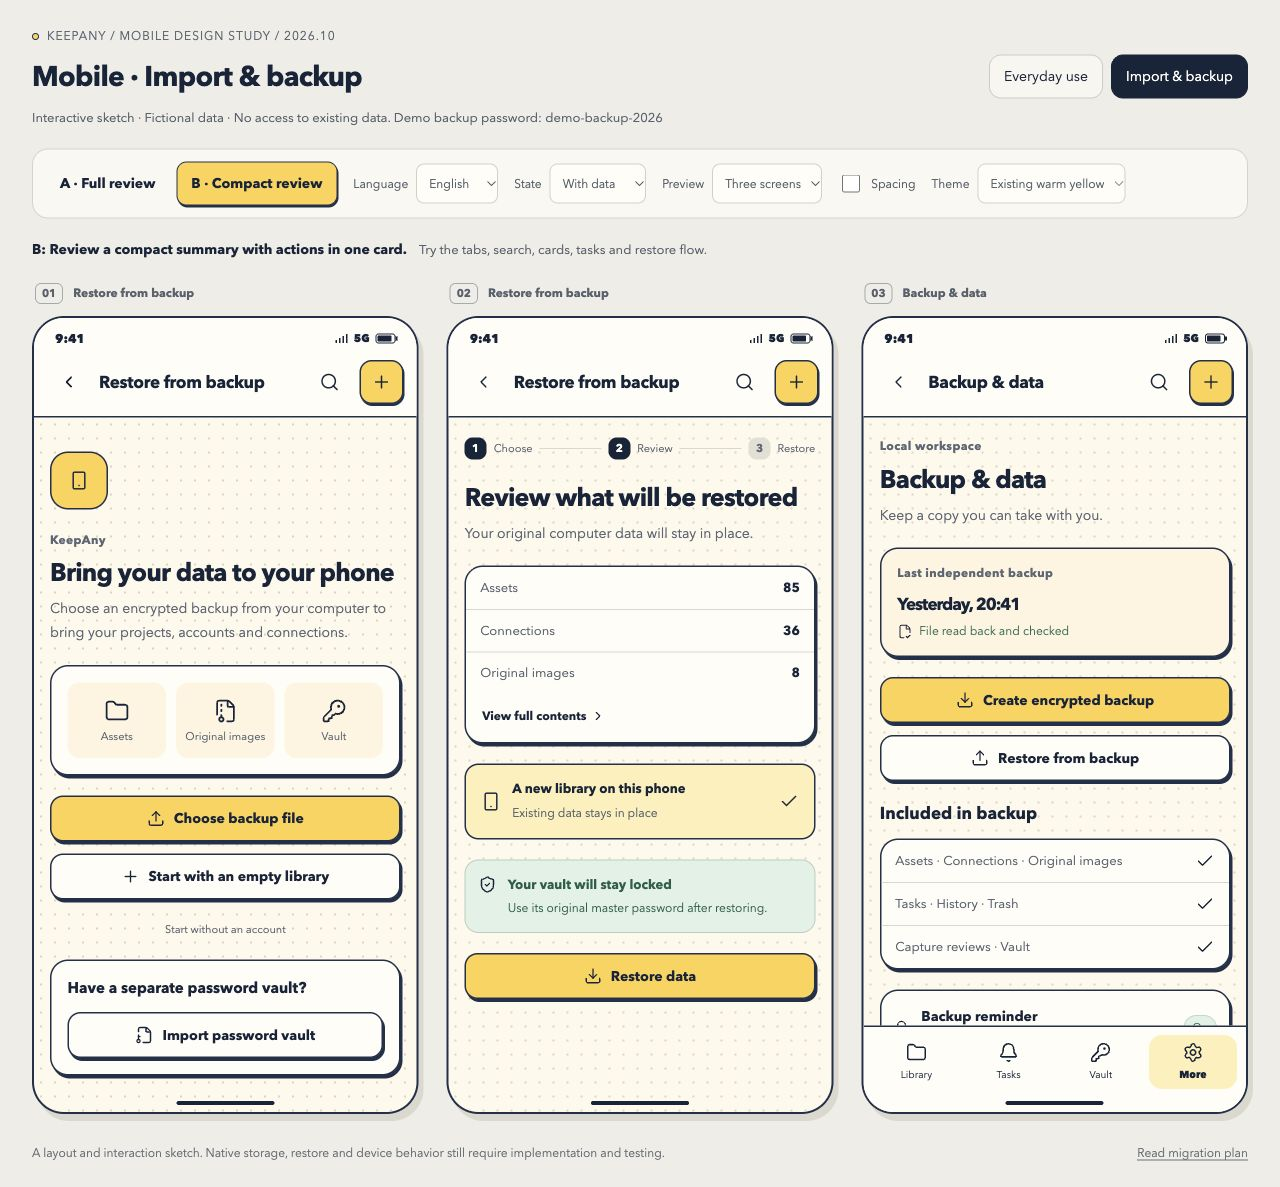
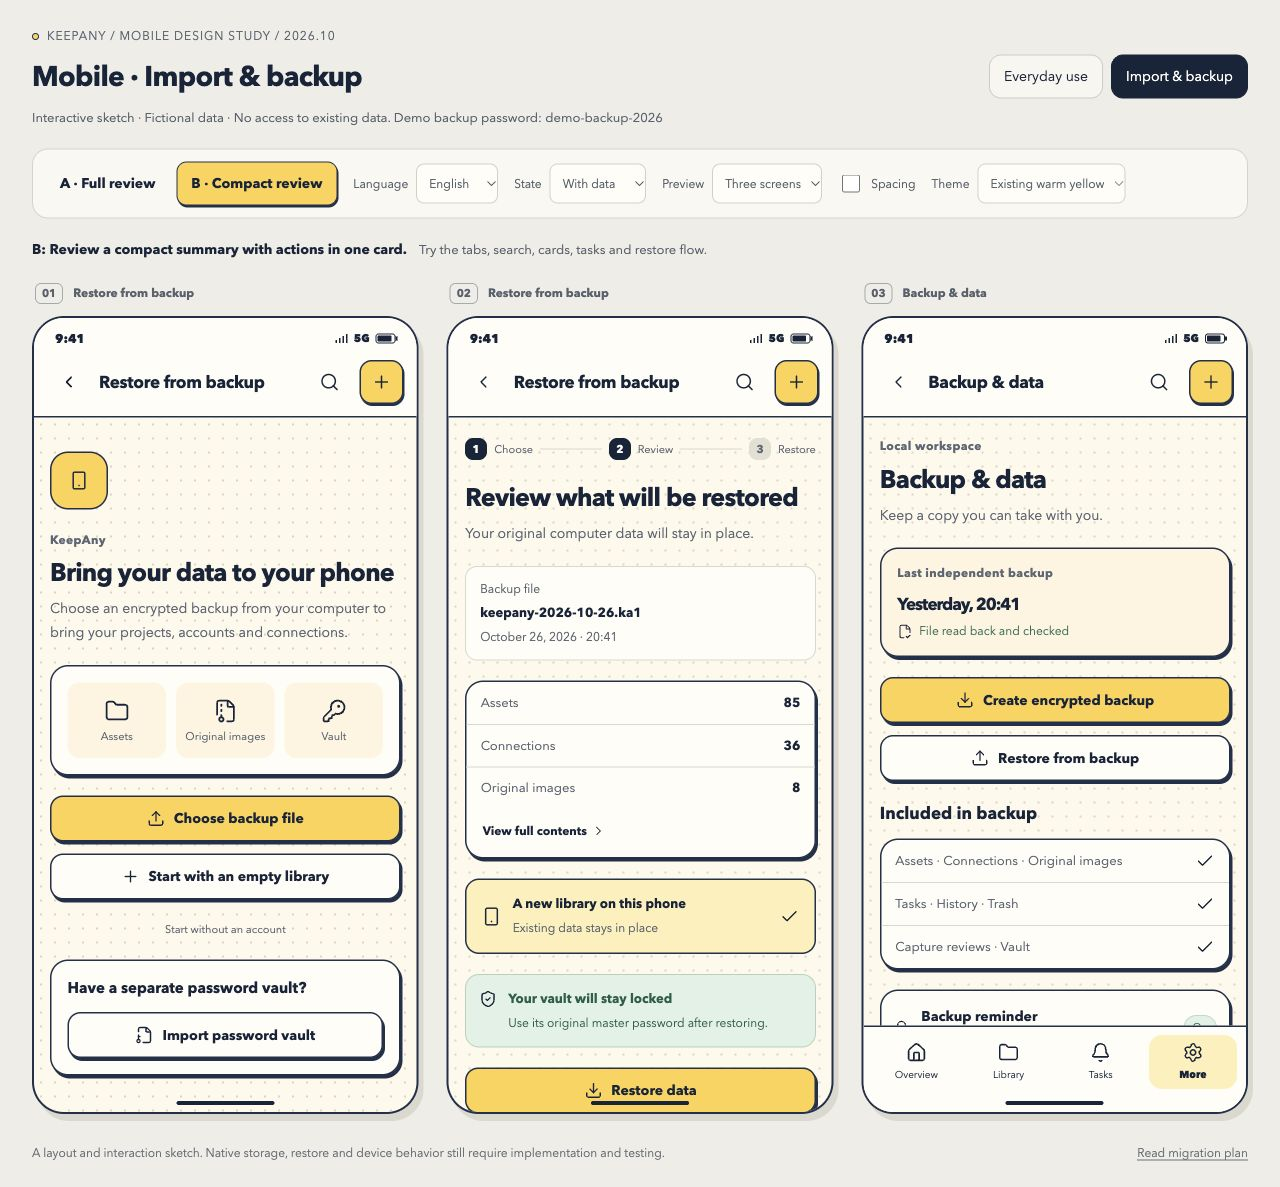
docs(sketch): keep backup source visible in compact restore review

diff --git a/.planning/sketches/mobile-preview.js b/.planning/sketches/mobile-preview.js
@@ -78,7 +78,7 @@
   function scope(p){const values=[['records','85'],['relations','36'],['images','8'],['tasks','12'],['history','42'],['trash','6'],['review','4'],['vault','1']];return `<div class="card"><ul class="scope-list">${values.slice(0,variant==='b'&&!p.fullScope?3:8).map(([k,v])=>`<li><span>${t(k)}</span><strong>${v}</strong></li>`).join('')}</ul>${variant==='b'?`<div style="padding:0 8px 4px">${text(p.fullScope?'lessScope':'moreScope','scope','ChevronRight')}</div>`:''}</div>`;}
   function restorePreview(p){
     if(uiState==='error'&&!p.ignoreError)return `${steps(2)}<h1>${t('backupScope')}</h1>${fileTile()}${notice('corruptTitle','corruptHint','error')}${action('chooseAgain','choose','RotateCcw','full primary')}`;
-    return `${steps(2)}<div><h1>${t('backupScope')}</h1><p class="intro">${t('backupScopeHint')}</p></div>${uiState==='interrupted'&&!p.resumed?`${notice('interruptedTitle','interruptedHint','warn')}<div class="action-stack">${action('continueRestore','continue','RotateCcw','primary full')}${action('keepCurrent','keep','Check','full')}</div>`:''}${variant==='a'?fileTile():''}${scope(p)}<div class="target">${icon('Smartphone')}<div><strong>${t('newWorkspace')}</strong><p class="sub">${t('keepExisting')}</p></div>${icon('Check')}</div>${notice('includeVault','includeVaultHint')}${action('restoreNow','restore','Download','primary full')}`;
+    return `${steps(2)}<div><h1>${t('backupScope')}</h1><p class="intro">${t('backupScopeHint')}</p></div>${uiState==='interrupted'&&!p.resumed?`${notice('interruptedTitle','interruptedHint','warn')}<div class="action-stack">${action('continueRestore','continue','RotateCcw','primary full')}${action('keepCurrent','keep','Check','full')}</div>`:''}${variant==='a'?fileTile():`<div class="compact-source"><span class="sub">${t('sourceFile')}</span><strong>${t('backupFilename')}</strong><span class="sub">${t('sourceDate')}</span></div>`}${scope(p)}<div class="target">${icon('Smartphone')}<div><strong>${t('newWorkspace')}</strong><p class="sub">${t('keepExisting')}</p></div>${icon('Check')}</div>${notice('includeVault','includeVaultHint')}${action('restoreNow','restore','Download','primary full')}`;
   }
   function restoreDone(){return `<div class="center"><div class="finish-icon">${icon('CircleCheck')}</div><p class="eyebrow">${t('restoreCompleted')}</p><h1>${t('restored')}</h1><p class="intro">${t('restoredHint')}</p></div><div class="card pad"><div class="summary-grid"><div><strong>85</strong><span>${t('records')}</span></div><div><strong>36</strong><span>${t('relations')}</span></div><div><strong>8</strong><span>${t('images')}</span></div></div></div>${notice('includeVault','includeVaultHint')}${action('openAssets','assets','ArrowRight','primary full')}${action('backupData','backup','FileArchive','full')}`;}
   function backup(p){return `<div><p class="eyebrow">${t('personal')}</p><h1>${t('backupData')}</h1><p class="intro">${t('backupSub')}</p></div><section class="card pad soft"><p class="eyebrow">${t('lastBackup')}</p><h2 class="backup-date">${uiState==='empty'?t('waiting'):t('backupTime')}</h2><p class="backup-status">${icon('FileCheck2')}${uiState==='empty'?t('backupEmptyHint'):t('backupVerified')}</p></section>${uiState==='error'?notice('saveFailure','saveFailureHint','error'):''}<div class="action-stack">${action('makeBackup','make-backup','Download','primary full')}${action('restoreBackup','choose','Upload','full')}</div><section><div class="section-heading"><h2>${t('backupContent')}</h2></div><div class="card"><ul class="scope-list"><li><span>${t('records')} · ${t('relations')} · ${t('images')}</span>${icon('Check')}</li><li><span>${t('tasks')} · ${t('history')} · ${t('trash')}</span>${icon('Check')}</li><li><span>${t('review')} · ${t('vault')}</span>${icon('Check')}</li></ul></div></section><div class="card"><button type="button" class="menu-row" data-action="reminder" aria-pressed="${p.reminder}">${icon('Bell')}<div><strong>${t('backupReminder')}</strong><span class="sub">${t('backupReminderSub')}</span></div><span class="pill ${p.reminder?'green':''}">${t(p.reminder?'on':'off')}</span></button></div>`;}
@@ -102,7 +102,7 @@
     if(p.modal==='vault-entry'){title='vaultEntries';content=`<div class="field-row"><div><dt>${t('loginId')}</dt><dd>hello@example.com</dd></div></div><div class="field-row"><div><dt>${t('vault')}</dt><dd>••••••••••••</dd></div></div>`;}
     return `<div class="modal-overlay" data-action="overlay"><section class="sheet" role="dialog" aria-modal="true" aria-label="${esc(t(title))}"><div class="sheet-grip"></div><div class="sheet-heading"><h2>${t(title)}</h2><button type="button" data-action="modal-close" aria-label="${t('close')}">${icon('X')}</button></div>${content}</section></div>`;
   }
-  function nav(p){if(['welcome','restore-preview','restore-done'].includes(p.page))return'';const keys=variant==='a'?['home','assets','tasks','mine']:['assets','tasks','vault','mine'];const icons={home:'House',assets:'Folder',tasks:'Bell',mine:'Settings',vault:'KeyRound'};return `<nav class="bottom-nav" aria-label="${lang==='zh'?'主导航':'Main navigation'}">${keys.map(k=>`<button type="button" data-action="${k}" class="${p.page===k||(p.page==='detail'&&k==='assets')||(p.page==='backup'&&k==='mine')?'active':''}" ${p.page===k?'aria-current="page"':''}>${icon(icons[k])}<span>${t(k)}</span></button>`).join('')}</nav>`;}
+  function nav(p){if(['welcome','restore-preview','restore-done'].includes(p.page))return'';const keys=transfer||variant==='a'?['home','assets','tasks','mine']:['assets','tasks','vault','mine'];const icons={home:'House',assets:'Folder',tasks:'Bell',mine:'Settings',vault:'KeyRound'};return `<nav class="bottom-nav" aria-label="${lang==='zh'?'主导航':'Main navigation'}">${keys.map(k=>`<button type="button" data-action="${k}" class="${p.page===k||(p.page==='detail'&&k==='assets')||(p.page==='backup'&&k==='mine')?'active':''}" ${p.page===k?'aria-current="page"':''}>${icon(icons[k])}<span>${t(k)}</span></button>`).join('')}</nav>`;}
   const pageTitle=page=>t(({detail:'detail',welcome:'restoreBackup','restore-preview':'restoreBackup','restore-done':'restoreCompleted',backup:'backupData',mine:'mine'})[page]||page);
   function renderPhone(i){const p=phones[i];p.index=i;const host=document.querySelector(`[data-device="${i}"]`);const scroll=host.querySelector('.screen')?.scrollTop||0;const active=host.contains(document.activeElement)?document.activeElement:null;const focus=active?.name,caret=active?.selectionStart;
     const back=['detail','backup','welcome','restore-preview','restore-done'].includes(p.page);

diff --git a/.planning/sketches/mobile-preview.css b/.planning/sketches/mobile-preview.css
@@ -5,3 +5,5 @@
 @media(prefers-reduced-motion:reduce){*,*::before,*::after{animation:none!important;transition:none!important}}
 .summary-grid strong .icon{width:25px;height:25px;margin:4px auto}
 @media(max-width:480px){.board,.single .board{margin-inline:-16px;width:calc(100% + 32px);grid-template-columns:minmax(0,1fr)}.device,.single .device{border:0;border-radius:0;max-width:none;width:100%;box-shadow:none}.device-column,.single .device-column{width:100%}.screen-label{padding-left:16px}}
+
+.compact-source{display:flex;flex-direction:column;gap:4px;padding:12px 14px;background:var(--color-surface);border:1px solid var(--color-border);border-radius:12px}.compact-source strong{font-size:13px;line-height:1.6;overflow-wrap:anywhere}

diff --git a/docs/08-项目进度交接.md b/docs/08-项目进度交接.md
@@ -3,6 +3,7 @@
 - **用户决定／范围**：采用Capacitor＋原生SQLite，先交付迁移方案和手机草图，现有数据及`.ka1`／`.kdbx`兼容。本轮仅文档／设计稿，不操作原4180资料，不切库、不装原生依赖、不发布应用。
 - **已完成**：以`65636db`核对RxDB、18张FileStore表、绑定设备库、现有备份加密／归属／预算／密码库边界。方案采用Web保留原库、手机单独原生仓库、统一接口和同一备份格式；原生文件不可变写入与候选资料集验证后切换，设备凭据另行加入。手机日常导航、首次恢复／备份各提供A／B可交互草图，沿用主题，全部虚构资料。
 - **验证证据**：草图语法通过；Ego实际打开；中英360／390／430／1280共80条布局观察无页面横向溢出、按钮高度≥44px，22项内存演示交互通过；8张双语A／B截图及错误／中断状态已保存并抽样目检。见[验收记录](evidence/2026-10-27/mobile-sqlite-design/验收记录.md)。这些结果不代表原生存储或真实备份验收。
+- **最终复核**：紧凑恢复B也保留来源文件名／时间，恢复方案比较独立于导航布局；中英四宽另8条补查通过并更新B截图。长英文与弹窗键盘另有补证。方案／草图／交接前三提交`47aa23f`／`518f608`／`8a52951`已回读远端，最终复核随同一分支追加提交。
 - **未完成**：原生工程、SQLite适配、Web接口重构、真实备份往返、真机清缓存／低空间／杀进程、签名安装包与发布均未实施；现有同步仍按实验能力处理。
 - **阻塞／下步**：本轮无交付阻塞，A／B待用户选择；建议日常A＋恢复A。确定后先做[方案](mobile/Capacitor-SQLite迁移方案-20261027.md)M0合成资料真机验证，再分片重构；旧电脑库与端口保留。
 - **提交与部署**：独立分支`codex/mobile-sqlite-design`；方案`47aa23f`、草图及证据`518f608`，本交接与两次提交一并推送到同名远端分支，远端指向在本轮收尾核对。未合并main、未发布或部署手机／Web新版；没有修改主目录未提交文件。设计预览4196与真实4180隔离，保留单一交付预览页，临时检查页收尾关闭。

diff --git a/docs/evidence/2026-10-27/mobile-sqlite-design/验收记录.md b/docs/evidence/2026-10-27/mobile-sqlite-design/验收记录.md
@@ -19,6 +19,7 @@
 - 8张中英文A／B桌面草图，另有390英文及恢复失败／中断截图。抽查日常A中文、日常B英文、恢复A中英文和恢复中断，卡片、表单、按钮与底栏间距可读；选择文件之前不提前展示恢复数量。
 - 浏览器错误／警告日志：最终读取为空。草图的 `connect-src 'none'`，无数据库、网络调用、真实文件或剪贴板写入。
 - 代码改动后复核并修正了单屏宽度／页面切换、关联目标、长账号名称、恢复忙碌时重复操作、弹窗Tab循环；删去未使用的生成图标。
+- 最终内容复核：紧凑恢复B补上始终可见的来源文件名与时间；恢复布局A／B的比较不再同时改变底栏导航。中英360／390／430／1280另8项来源与溢出检查通过，见 `compact-source-checks.json`；B版两张桌面截图已更新。360英文长名称与登录标识、弹窗接收焦点／反向Tab另有 `supplementary-checks.json`。
 
 ## 未完成与边界
 
